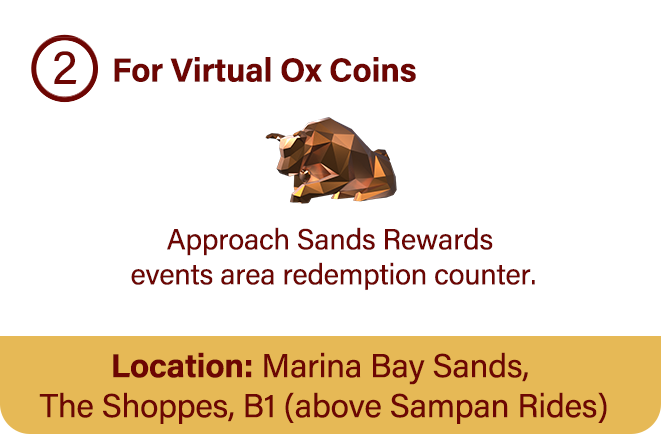
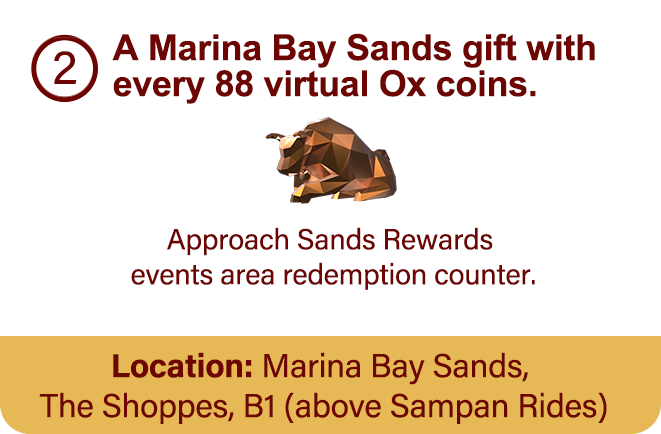
Bug Fix

Changed region(s): [[0.1513, 0.0599, 0.9077, 0.2396]]

diff --git a/src/MBSContent.ts b/src/MBSContent.ts
@@ -6,8 +6,8 @@ let mc_content={
     "OX":"OX COINS",
     "redPack":" RED PACKET",
     "ENVELOPES":"ENVELOPES",
-    "coinsCongTipsText1":"Collect 88 Virtual Ox coins to redeem a",
-    "coinsCongTipsText2":"Marina Bay Sands Capsule Machine Game.",
+    "coinsCongTipsText1":"Collect 88 Virtual Ox coins ",
+    "coinsCongTipsText2":"to redeem a Marina Bay Sands gift.",
     "envCongTipsText1":"OF MARINA BAY SANDS",
     "envCongTipsText2":"LIMITED EDITION RED PACKET ENVELOPES",
     "PACK":" PACK",
@@ -40,8 +40,8 @@ let mc_content={
     "MIDMsg":"Sin up success,patron ID:",
     "SUFailExist":"Sign up failed.\r\nPatron profile existed.",
     "zpname":"Please play the game",
-    "cText1":"AUSPICIOUS OX",
-    "cText2":"COLLECTIBLE",
+    "cText1":"EXCHANGE 88 VIRTUAL OX COINS",
+    "cText2":"FOR A MARINA BAY SANDS GIFT",
     "eText1":"LIMITED EDITION",
     "eText2":"REDPACKET",
     "eText3":"ENVELOPES",

diff --git a/src/PrizeAndRules.ts b/src/PrizeAndRules.ts
@@ -39,7 +39,7 @@ class PrizeAndRules extends eui.UILayer {
 
     private createPrize(){
         var textColor = 0x851c1c;
-        var textSize = 40;
+        var textSize = 27;
         var _that = this;
 
         Main.jp_onoff = true;
